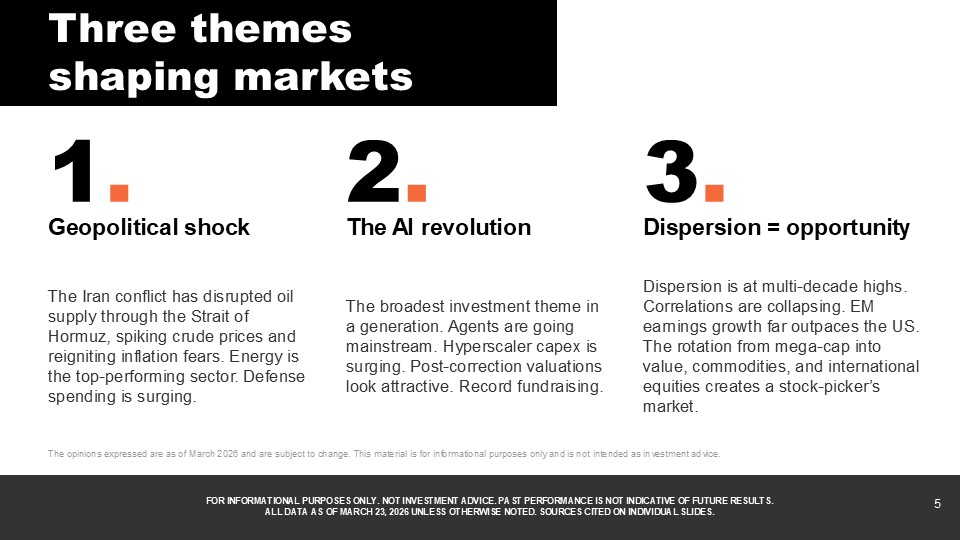
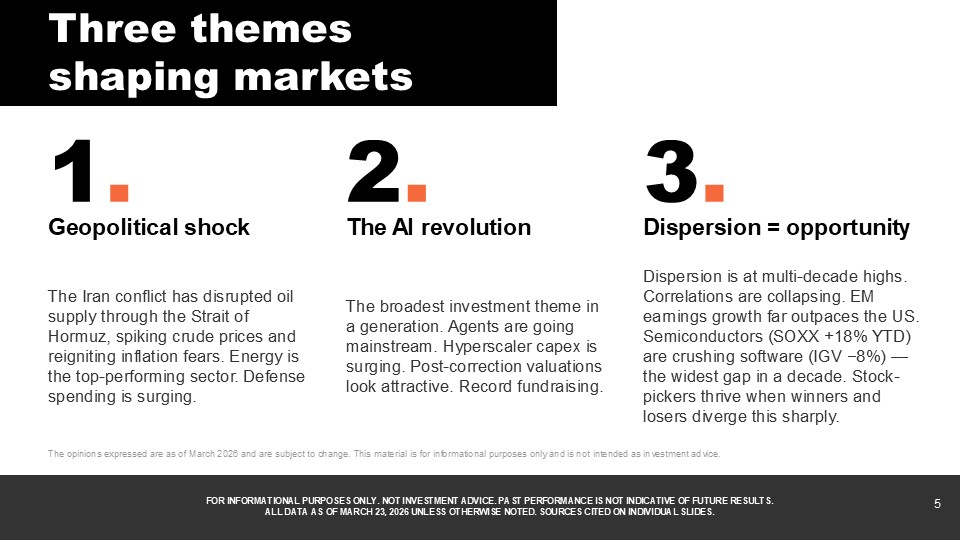
V7: Semis vs software slide, placeholders, takeaway removal, renumbered to 22 slides

Changed region(s): [[0.6562, 0.5037, 0.9688, 0.8]]

diff --git a/src/App.jsx b/src/App.jsx
@@ -1,7 +1,7 @@
 import { useState, useEffect, useCallback } from 'react'
 import './App.css'
 
-const TOTAL_SLIDES = 21
+const TOTAL_SLIDES = 22
 
 const slideNames = [
   "Cover",
@@ -21,6 +21,7 @@ const slideNames = [
   "Infrastructure Sprint",
   "Frontier AI",
   "Dispersion Extremes",
+  "Semis vs. Software",
   "Global Rotation",
   "Opportunity & Caution",
   "Key Takeaways",
